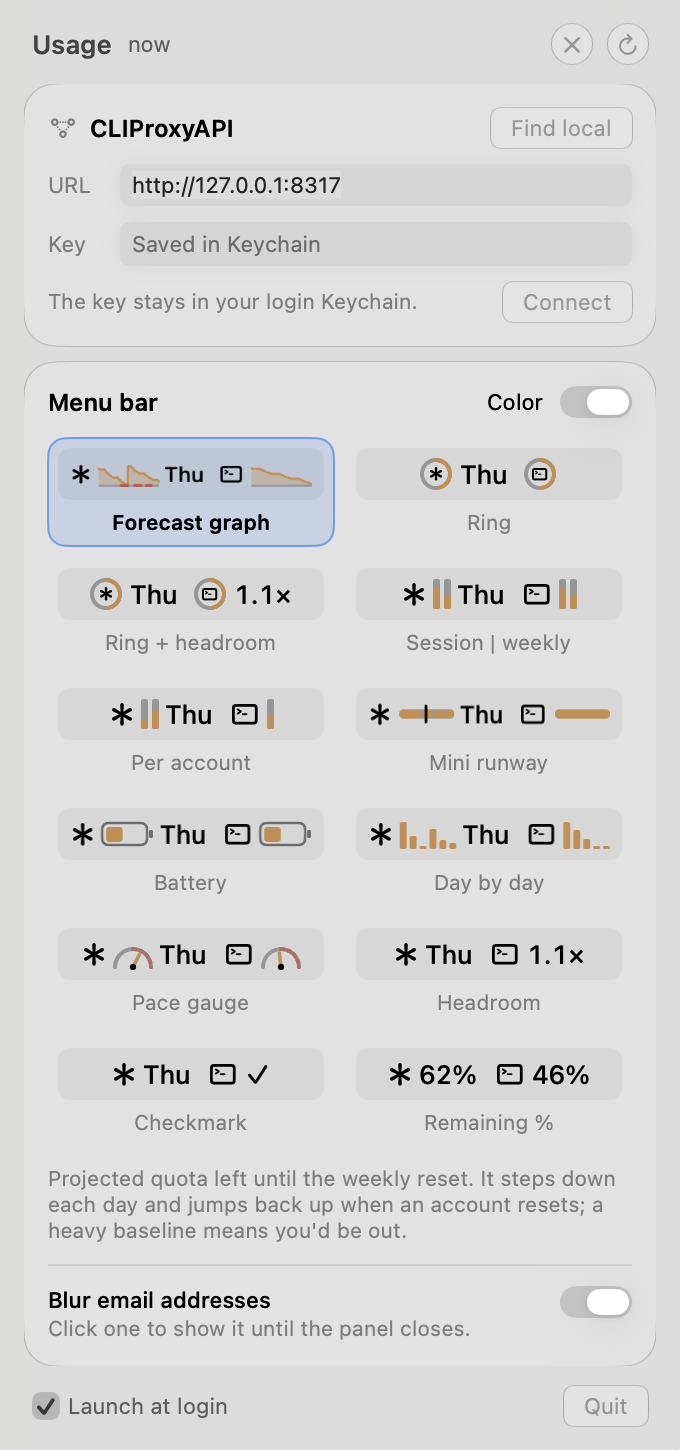
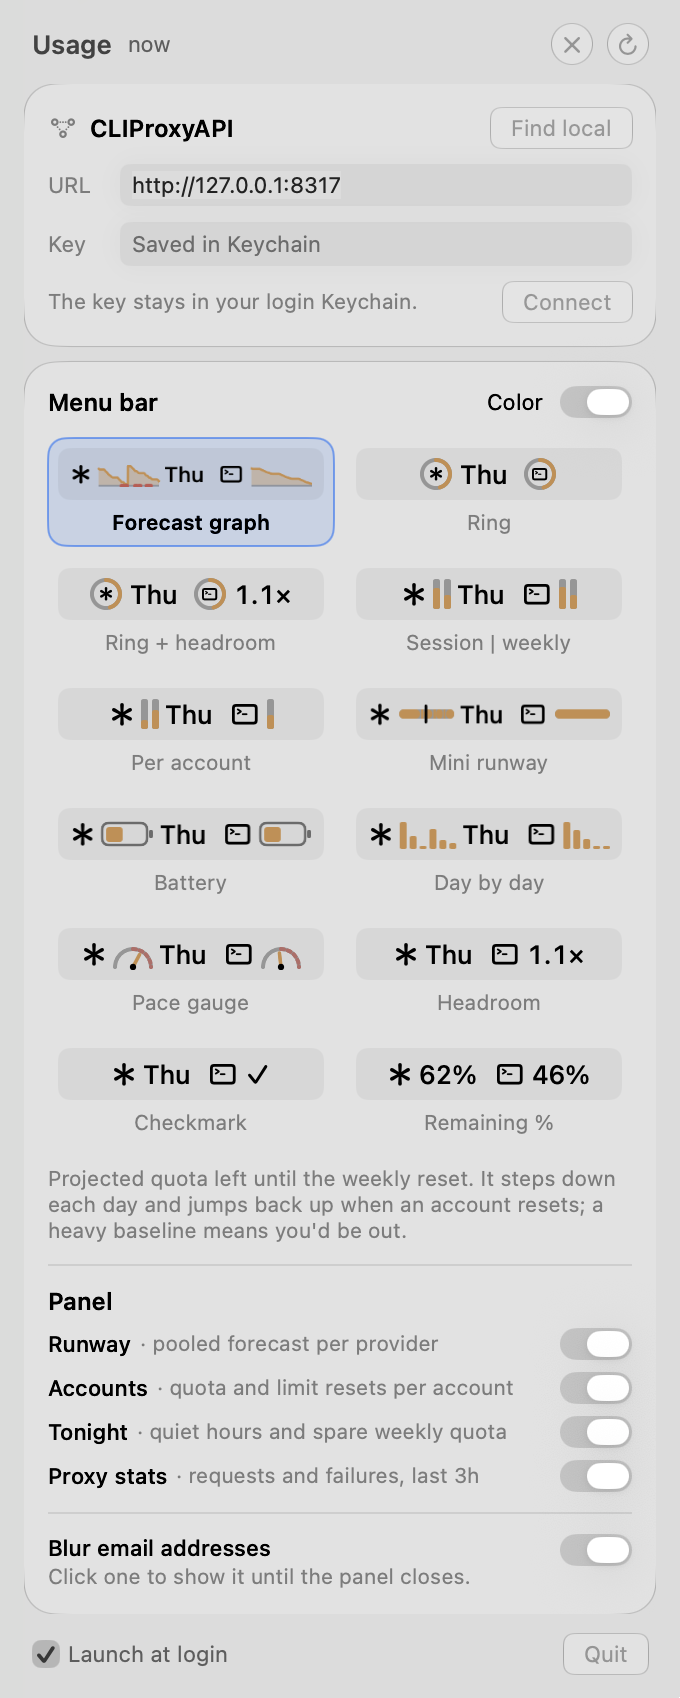
Let each panel section be hidden
Settings gets a Panel group with a switch for Runway, Accounts, Tonight
and Proxy stats. With everything hidden the panel says so and links to
settings instead of showing nothing.

diff --git a/Sources/SubPacer/Views.swift b/Sources/SubPacer/Views.swift
@@ -56,6 +56,10 @@ struct UsagePanel: View {
     /// Snapshots render the whole panel; on screen it scrolls once it would outgrow the display.
     var limitHeight = true
     @State private var cardsHeight: CGFloat = 0
+    @AppStorage(PanelSection.runway.storageKey) private var showRunway = true
+    @AppStorage(PanelSection.accounts.storageKey) private var showAccounts = true
+    @AppStorage(PanelSection.tonight.storageKey) private var showTonight = true
+    @AppStorage(PanelSection.proxy.storageKey) private var showProxy = true
 
     /// Room for the cards: the screen below the menu bar, minus the header, footer and a margin.
     private var maxCardsHeight: CGFloat {
@@ -102,22 +106,37 @@ struct UsagePanel: View {
                 .padding(10)
                 .glassEffect(.regular, in: .rect(cornerRadius: 14))
         }
-        if !store.runways.isEmpty {
+        if showRunway && !store.runways.isEmpty {
             RunwayCard(runways: store.runways)
         }
-        ForEach(store.accounts) { account in
-            AccountCard(account: account)
+        if showAccounts {
+            ForEach(store.accounts) { account in
+                AccountCard(account: account)
+            }
         }
         if store.accounts.isEmpty && store.proxyError == nil {
             ProgressView()
                 .controlSize(.small)
                 .frame(maxWidth: .infinity, minHeight: 80)
         }
-        if store.accounts.contains(where: { $0.offHours != nil }) {
+        if showTonight && store.accounts.contains(where: { $0.offHours != nil }) {
             OffHoursCard(store: store)
         }
-        if !store.accounts.isEmpty {
+        if showProxy && !store.accounts.isEmpty {
             ProxySection(store: store)
+        }
+        if !store.accounts.isEmpty && !(showRunway || showAccounts || showTonight || showProxy) {
+            Button {
+                withAnimation(.snappy(duration: 0.25)) { showSettings = true }
+            } label: {
+                Label("All sections are hidden. Show some in settings.", systemImage: "eye.slash")
+                    .font(.system(size: 11))
+                    .foregroundStyle(.secondary)
+                    .frame(maxWidth: .infinity, minHeight: 44)
+                    .contentShape(Rectangle())
+            }
+            .buttonStyle(.plain)
+            .glassEffect(.regular, in: .rect(cornerRadius: 14))
         }
     }
 
@@ -773,6 +792,14 @@ struct SettingsCard: View {
                 .foregroundStyle(.secondary)
                 .fixedSize(horizontal: false, vertical: true)
             Divider()
+            VStack(alignment: .leading, spacing: 6) {
+                Text("Panel")
+                    .font(.system(size: 12, weight: .semibold))
+                ForEach(PanelSection.allCases) { section in
+                    SectionToggle(section: section)
+                }
+            }
+            Divider()
             HStack(alignment: .firstTextBaseline) {
                 VStack(alignment: .leading, spacing: 1) {
                     Text("Blur email addresses").font(.system(size: 11, weight: .medium))
@@ -789,6 +816,59 @@ struct SettingsCard: View {
         }
         .padding(12)
         .glassEffect(.regular, in: .rect(cornerRadius: 16))
+    }
+}
+
+// MARK: - Panel sections
+
+/// The cards the panel can show, each of which can be hidden in settings.
+enum PanelSection: String, CaseIterable, Identifiable {
+    case runway, accounts, tonight, proxy
+
+    var id: String { rawValue }
+    var storageKey: String { "show.\(rawValue)" }
+
+    var title: String {
+        switch self {
+        case .runway: "Runway"
+        case .accounts: "Accounts"
+        case .tonight: "Tonight"
+        case .proxy: "Proxy stats"
+        }
+    }
+
+    var detail: String {
+        switch self {
+        case .runway: "pooled forecast per provider"
+        case .accounts: "quota and limit resets per account"
+        case .tonight: "quiet hours and spare weekly quota"
+        case .proxy: "requests and failures, last 3h"
+        }
+    }
+}
+
+struct SectionToggle: View {
+    let section: PanelSection
+    @AppStorage private var isOn: Bool
+
+    init(section: PanelSection) {
+        self.section = section
+        _isOn = AppStorage(wrappedValue: true, section.storageKey)
+    }
+
+    var body: some View {
+        HStack(spacing: 4) {
+            Text(section.title).font(.system(size: 11, weight: .medium))
+            Text("· \(section.detail)")
+                .font(.system(size: 10.5))
+                .foregroundStyle(.secondary)
+                .lineLimit(1)
+            Spacer(minLength: 6)
+            Toggle(section.title, isOn: $isOn.animation(.snappy(duration: 0.25)))
+                .labelsHidden()
+                .toggleStyle(.switch)
+                .controlSize(.mini)
+        }
     }
 }
 

diff --git a/README.md b/README.md
@@ -70,10 +70,10 @@ Restart the proxy, then click the SubPacer menu bar icon. On first run it shows 
 1. **Find local** looks for a proxy on this Mac (port 8317, plus any `port:` from a `config.yaml` in `~/.cli-proxy-api`, `~/.config/cliproxyapi` or Homebrew's `etc`). Or type the URL.
 2. Paste the key you chose above and click **Connect**. SubPacer checks it against the proxy before saving anything.
 
-Change these later in settings (gear icon, ⌘,), which is also where you pick the menu bar style:
+Change these later in settings (gear icon, ⌘,), which is also where you pick the menu bar style and which sections the panel shows:
 
 <p align="center">
-  <img src="docs/screenshots/settings.png" alt="Settings: proxy connection, menu bar styles previewed with live numbers, email blurring" width="340">
+  <img src="docs/screenshots/settings.png" alt="Settings: proxy connection, menu bar styles previewed with live numbers, panel sections, email blurring" width="340">
 </p>
 
 A proxy on another machine must be reached over `https://` (for example behind a reverse proxy or `tailscale serve`), since the key is sent with every request. Plain `http://` is only accepted for `localhost`.
